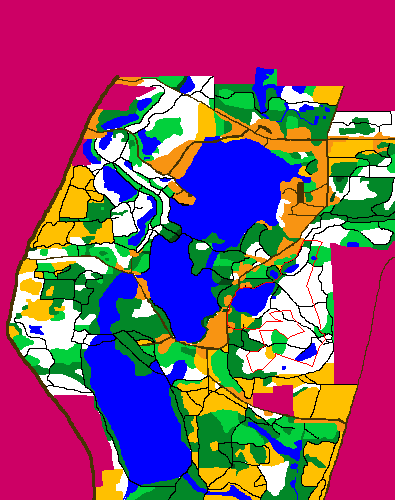
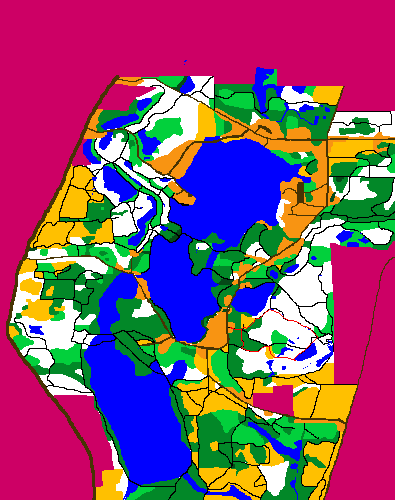
o Check-in Spring

diff --git a/lab1/src/com/osamufujimoto/Main.java b/lab1/src/com/osamufujimoto/Main.java
@@ -40,7 +40,7 @@ public class Main {
 
         int[][] water = new int[500][395];
 
-        Node[][] n = IO.read(image, elevations, water);
+        final Node[][] n = IO.read(image, elevations, water);
 
         List<Set<Node>> bound = IO.findEdges(water, n);
 
@@ -74,21 +74,33 @@ public class Main {
 
         }
 
+
+        Node[][] __copy = new Node[500][395];
+        for (int y = 0; y < 500; y++) {
+
+            for (int x = 0; x < 395; x++) {
+
+                __copy[y][x] = n[y][x];
+            }
+        }
+
+        Set<Node> _borders = new LinkedHashSet<>();
         if (_season == Season.SPRING) {
             Set<Node> result = new LinkedHashSet<>();
-            Set<Node> _borders = bound.get(1);
+            _borders = bound.get(1);
 
-            for (int i = 0; i < 7; i++) {
-                Set<Node> _result = expandOutside(_borders, n);
+            for (int i = 0; i < 15; i++) {
+                Set<Node> _result = expandOutside(_borders, __copy);
                 result.addAll(_result);
                 _borders = _result;
             }
 
-            for (Node _result : result) {
-                n[_result.y][_result.x].t = Terrain.LAKE_SWAP_MARSH;
-            }
         }
 
+
+        // Printer.plotNodes(fullPath, new File("terrain.png"), output, _n);
+
+        // System.exit(0);
 
         Search s;
 
@@ -110,7 +122,10 @@ public class Main {
         LOGI("Number of nodes: " + fullPath.size());
 
 
-        Printer.plotNodes(fullPath, new File("terrain.png"), output, n);
+        if (_season == Season.SPRING)
+            Printer.plotNodes(fullPath, new File("terrain.png"), output, _borders);
+        else
+            Printer.plotNodes(fullPath, new File("terrain.png"), output, null);
 
         Printer.printHumanReadableOutput(nodes, fullPathList);
 
@@ -158,13 +173,13 @@ public class Main {
         return isSafeNow;
     }
 
-    Set <Node> mud = new LinkedHashSet<>();
 
     public static Set<Node> isNowUnderwater(Node[][] n, List<Node> current, Node from) {
         Set<Node> isReachable = new LinkedHashSet<>();
         for (Node _successor : current) {
-            if (n[_successor.y][_successor.x].t != Terrain.LAKE_SWAP_MARSH) {
-                if (Math.abs(_successor.e - from.e) > 1.0) {
+            if (n[_successor.y][_successor.x].t != Terrain.LAKE_SWAP_MARSH ||
+                    n[_successor.y][_successor.x].t != Terrain.OUT_OF_BOUNDS) {
+                if ( _successor.e - from.e > 1) {
                     isReachable.add(n[_successor.y][_successor.x]);
                 }
             }

diff --git a/lab1/src/com/osamufujimoto/Printer.java b/lab1/src/com/osamufujimoto/Printer.java
@@ -177,7 +177,7 @@ public class Printer {
      * @param _image the original map
      * @param output the output file
      */
-    public static void plotNodes(List<Node> nodes, File _image, File output, Node[][] underwater) {
+    public static void plotNodes(List<Node> nodes, File _image, File output, Set<Node> water) {
 
         try {
 
@@ -185,17 +185,9 @@ public class Printer {
 
             if (Main._season == Season.SPRING) {
 
-                for (int y = 0; y < 500; y++) {
+                for (Node _node : water) {
 
-                    for (int x = 0; x < 395; x++) {
-
-                        Node node = underwater[y][x];
-
-                        if (node.t == Terrain.LAKE_SWAP_MARSH) {
-
-                            image.setRGB(node.x, node.y, new Color(0, 0, 255).getRGB());
-                        }
-                    }
+                    image.setRGB(_node.x, _node.y, new Color(0, 0, 255).getRGB());
                 }
             }
 
